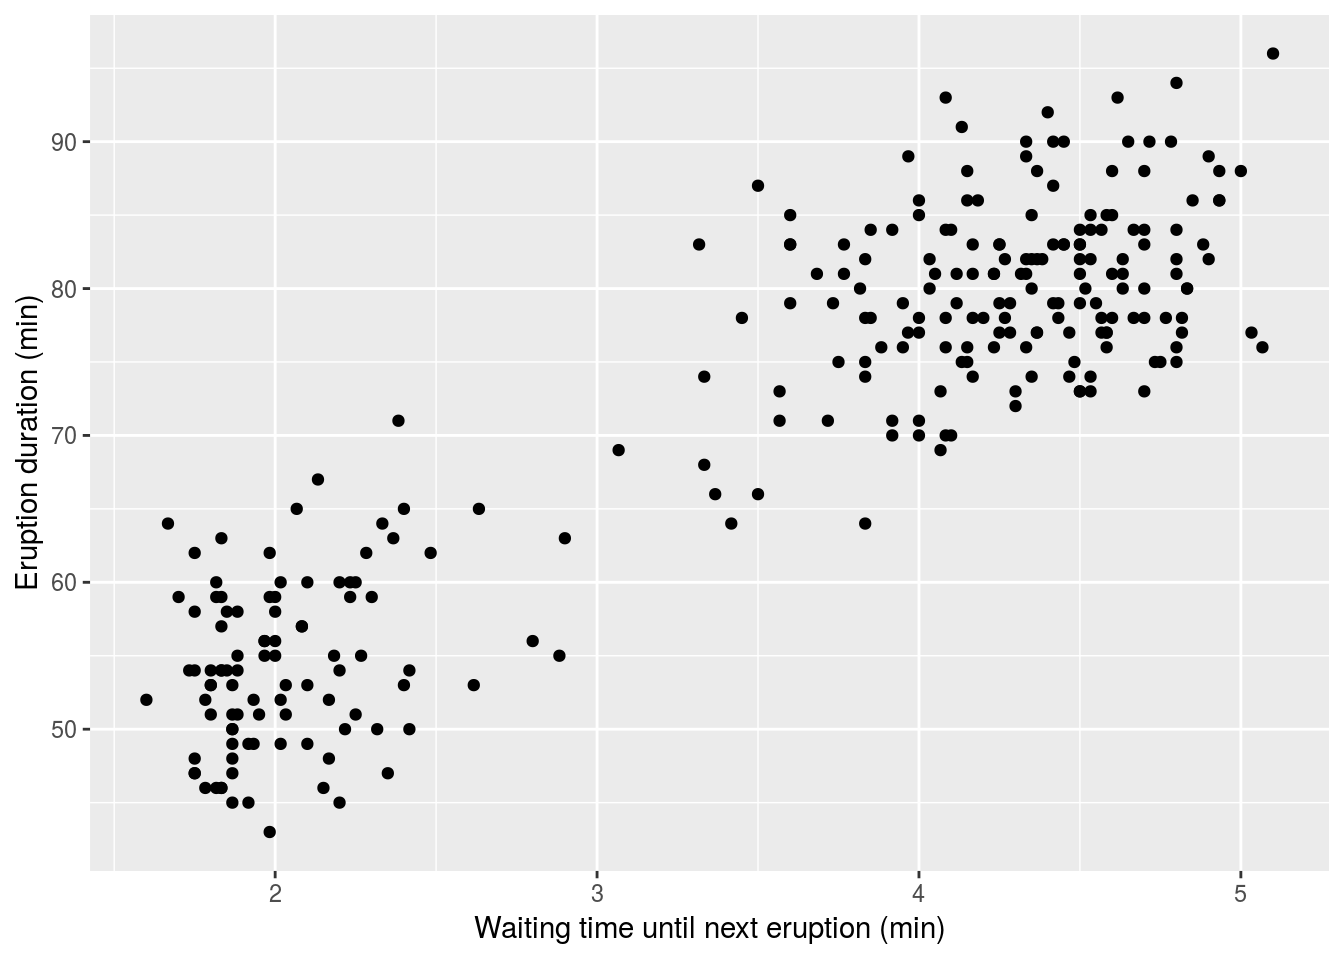
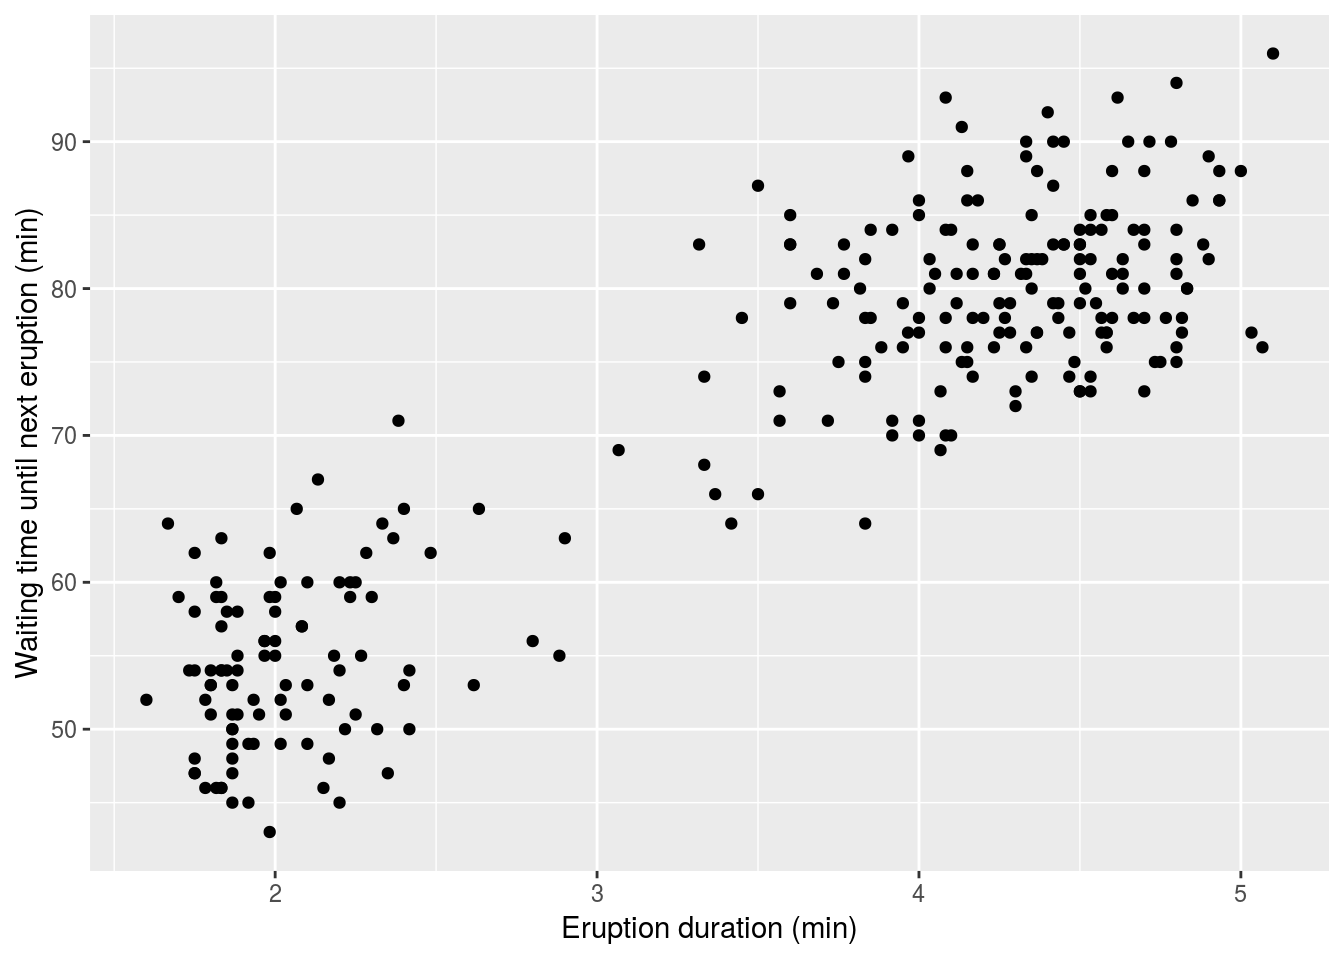
Go!

Changed region(s): [[0.3438, 0.9375, 0.6875, 1.0], [0.0, 0.2188, 0.0312, 0.7188]]

diff --git a/regre.html b/regre.html
@@ -275,8 +275,8 @@ $(document).ready(function () {
 <pre class="r"><code>library(ggplot2)
 p &lt;- ggplot(faithful) +
        geom_point(aes(x=faithful$Eruptions, y=faithful$Waiting.Time)) +
-       scale_x_continuous(&quot;Waiting time until next eruption (min)&quot;) +
-       scale_y_continuous(&quot;Eruption duration (min)&quot;)
+       scale_x_continuous(&quot;Eruption duration (min)&quot;) +
+       scale_y_continuous(&quot;Waiting time until next eruption (min)&quot;)
 p</code></pre>
 <p><img src="regre_files/figure-html/unnamed-chunk-3-1.png" width="672" /></p>
 <p>Por lo que vemos, hay una clara correlación positiva, cuanto mayor es el tiempo de espera, mayor es la duración de la erupción.</p>
@@ -293,7 +293,7 @@ p</code></pre>
 <p>Entonces, según los resultados estimados para <span class="math inline">\(\alpha\)</span> y <span class="math inline">\(\beta\)</span> el modelo es el siguiente:</p>
 <p><span class="math display">\[\text{Waiting.Time} = 33.47 + 10.73 *\text{Eruptions}\]</span> Hay un buen gráfico llamado diagrama de línea ajustado, que es el diagrama de dispersión con la línea de regresión de mínimos cuadrados añadida:</p>
 <pre class="r"><code>library(ggplot2)
-ggplot(faithful, aes(x=faithful$Waiting.Time, y=faithful$Eruptions)) +    geom_point() +  geom_smooth(method=lm , color=&quot;red&quot;, se=FALSE)</code></pre>
+ggplot(faithful, aes(x=faithful$Eruptions, y=faithful$Waiting.Time)) +    geom_point() +  geom_smooth(method=lm , color=&quot;red&quot;, se=FALSE)</code></pre>
 <p><img src="regre_files/figure-html/unnamed-chunk-5-1.png" width="672" /></p>
 <div id="coeficiente-de-determinacion" class="section level3">
 <h3>Coeficiente de determinación</h3>
